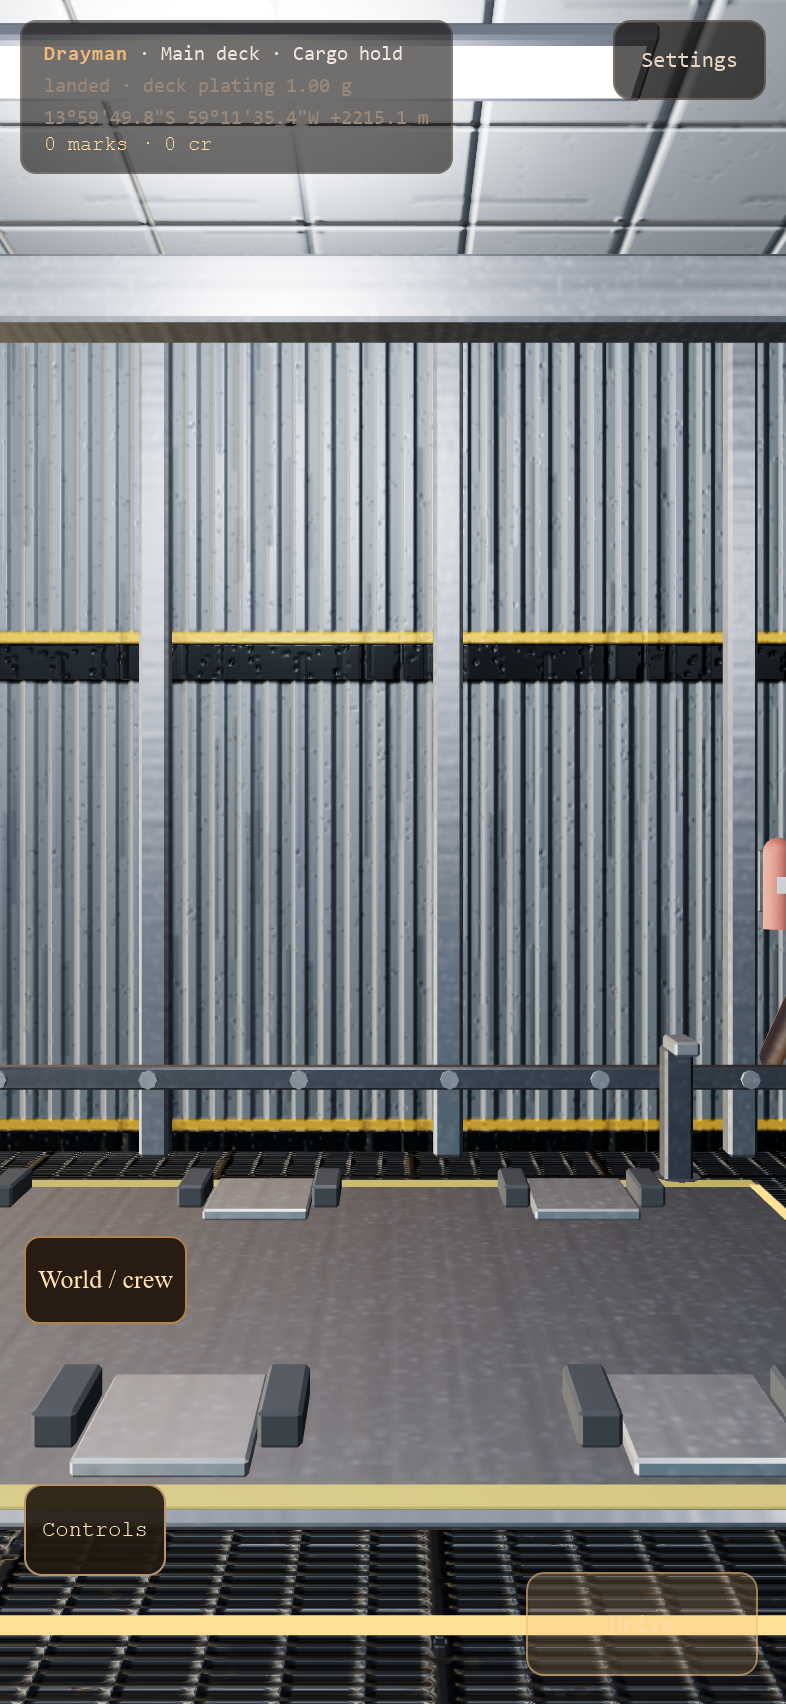
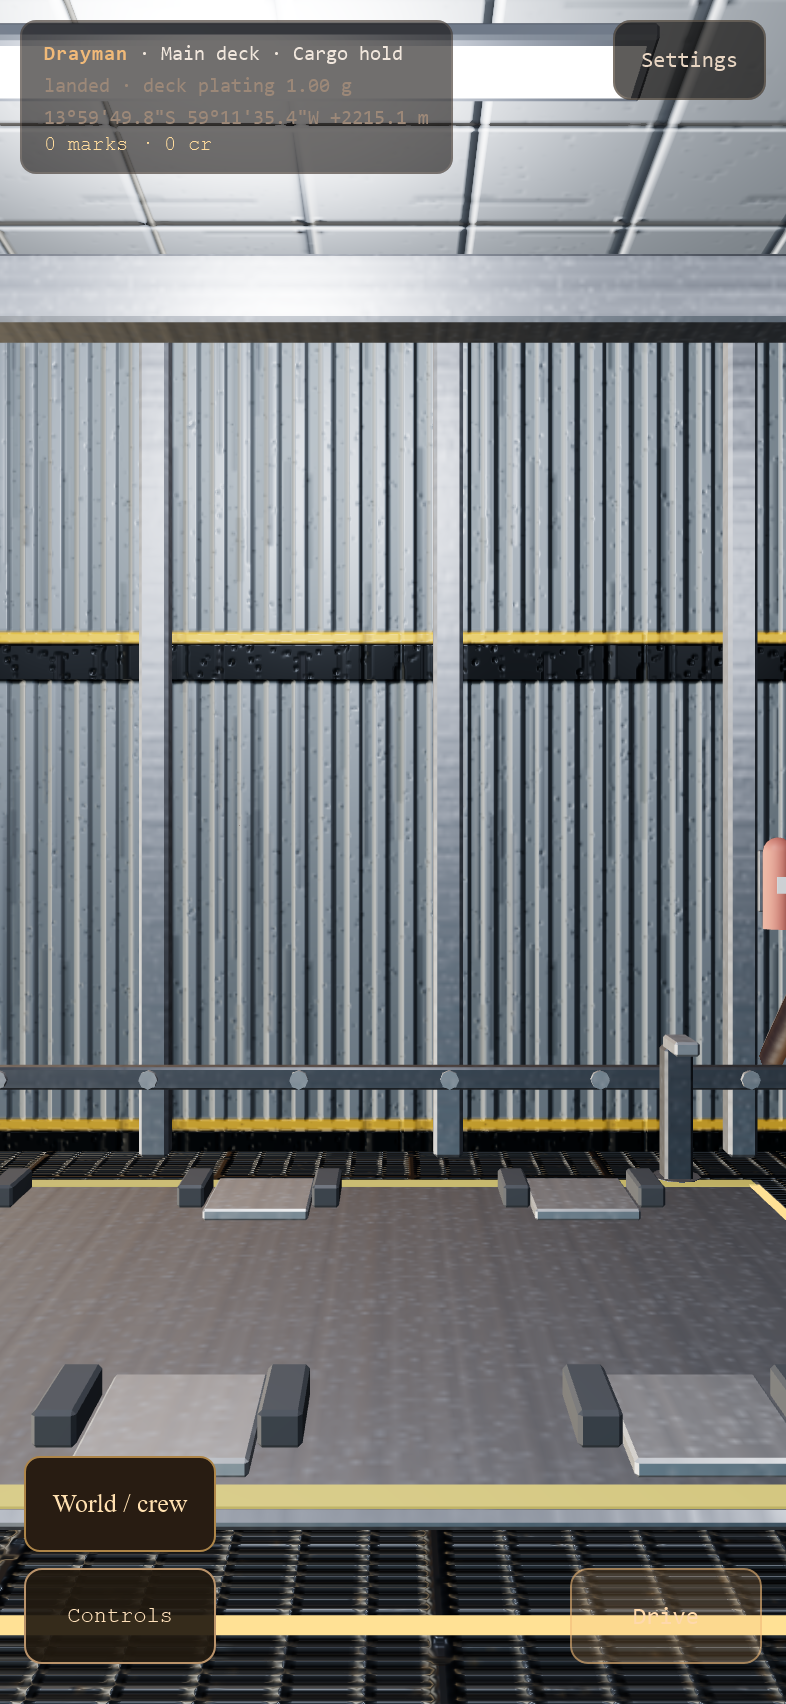
Cosmos cargo: the market stall button docks with the other phone buttons and its sheet is a modal; build stamp; phone check and WebKit phones green on the rebased tree

Changed region(s): [[0.0305, 0.8398, 0.2748, 0.9953], [0.6718, 0.902, 0.9771, 0.9953], [0.0305, 0.7154, 0.2443, 0.7776]]

diff --git a/games/the-cosmos/src/ui/phoneLayout.js b/games/the-cosmos/src/ui/phoneLayout.js
@@ -5,17 +5,17 @@
 // Talk to crew, the speed bar, LIFT, SINK, Stand and Controls stacked on each other. Now the modules still own WHAT each button does
 // and WHEN it shows; this file owns WHERE. On touch devices (or a window narrower than 520px) matching buttons are moved into:
 //   #dock-right  (column, bottom up)  the thing you do now: action / tool / drop / climb / talk-to-crew / deliver / fire / sink / lift
-//   #dock-left   (column, bottom up)  Controls, World / crew, Hold to talk
+//   #dock-left   (column, bottom up)  Controls, World / crew, the market stall button, Hold to talk
 //   #dock-bottom (its own row)        the flight speed bar
 // Showing and hiding stays with the modules (display), so a hidden button takes no room.
 
 export const DOCKS = {
   right: ['#btn-action', '#btn-tool', '#btn-drop-all', '#btn-climb', '#crew-talk', '#quest-deliver', '#btn-fire', '#btn-sink', '#btn-lift'],
-  left: ['#key-controls', '#multiplayer-button', '#voice-talk'],
+  left: ['#key-controls', '#multiplayer-button', '#shop-button', '#voice-talk'],
   bottom: ['#flight-speed'],
 };
 // A panel that opens over the screen is a modal: the dock steps aside while it is open.
-const MODALS = ['#multiplayer-panel:not([hidden])', '#crew-panel', '#account-panel', '#space-sheet', '#settings-panel.open'];
+const MODALS = ['#multiplayer-panel:not([hidden])', '#crew-panel', '#account-panel', '#space-sheet', '#settings-panel.open', '#shop-panel'];
 
 const CSS = `
 #phone-ui{position:fixed;inset:0;z-index:68;pointer-events:none;display:flex;flex-direction:column;justify-content:flex-end;
